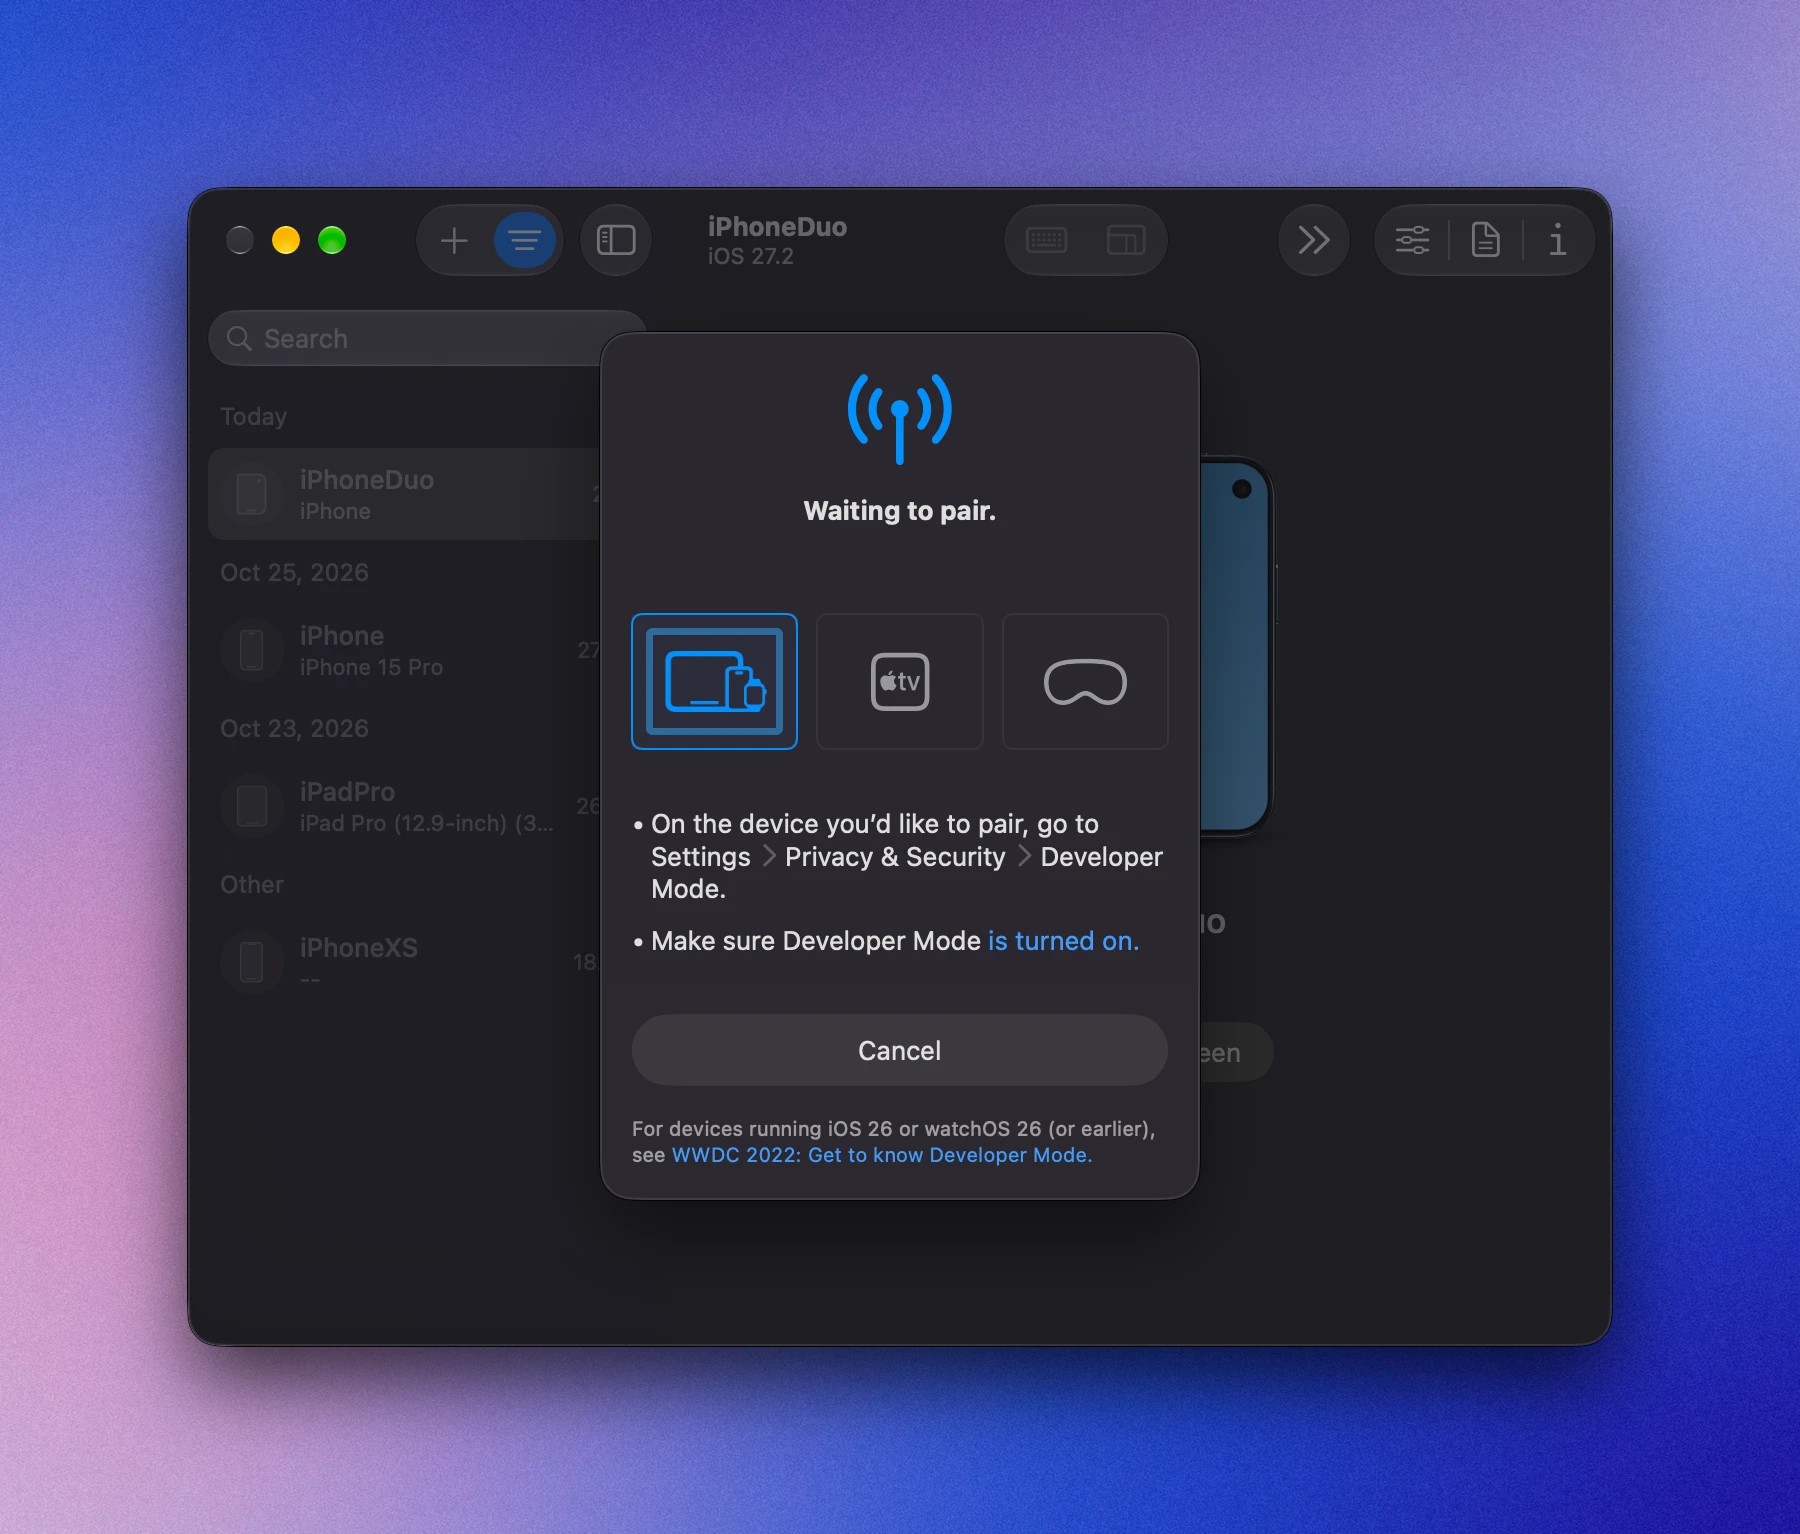
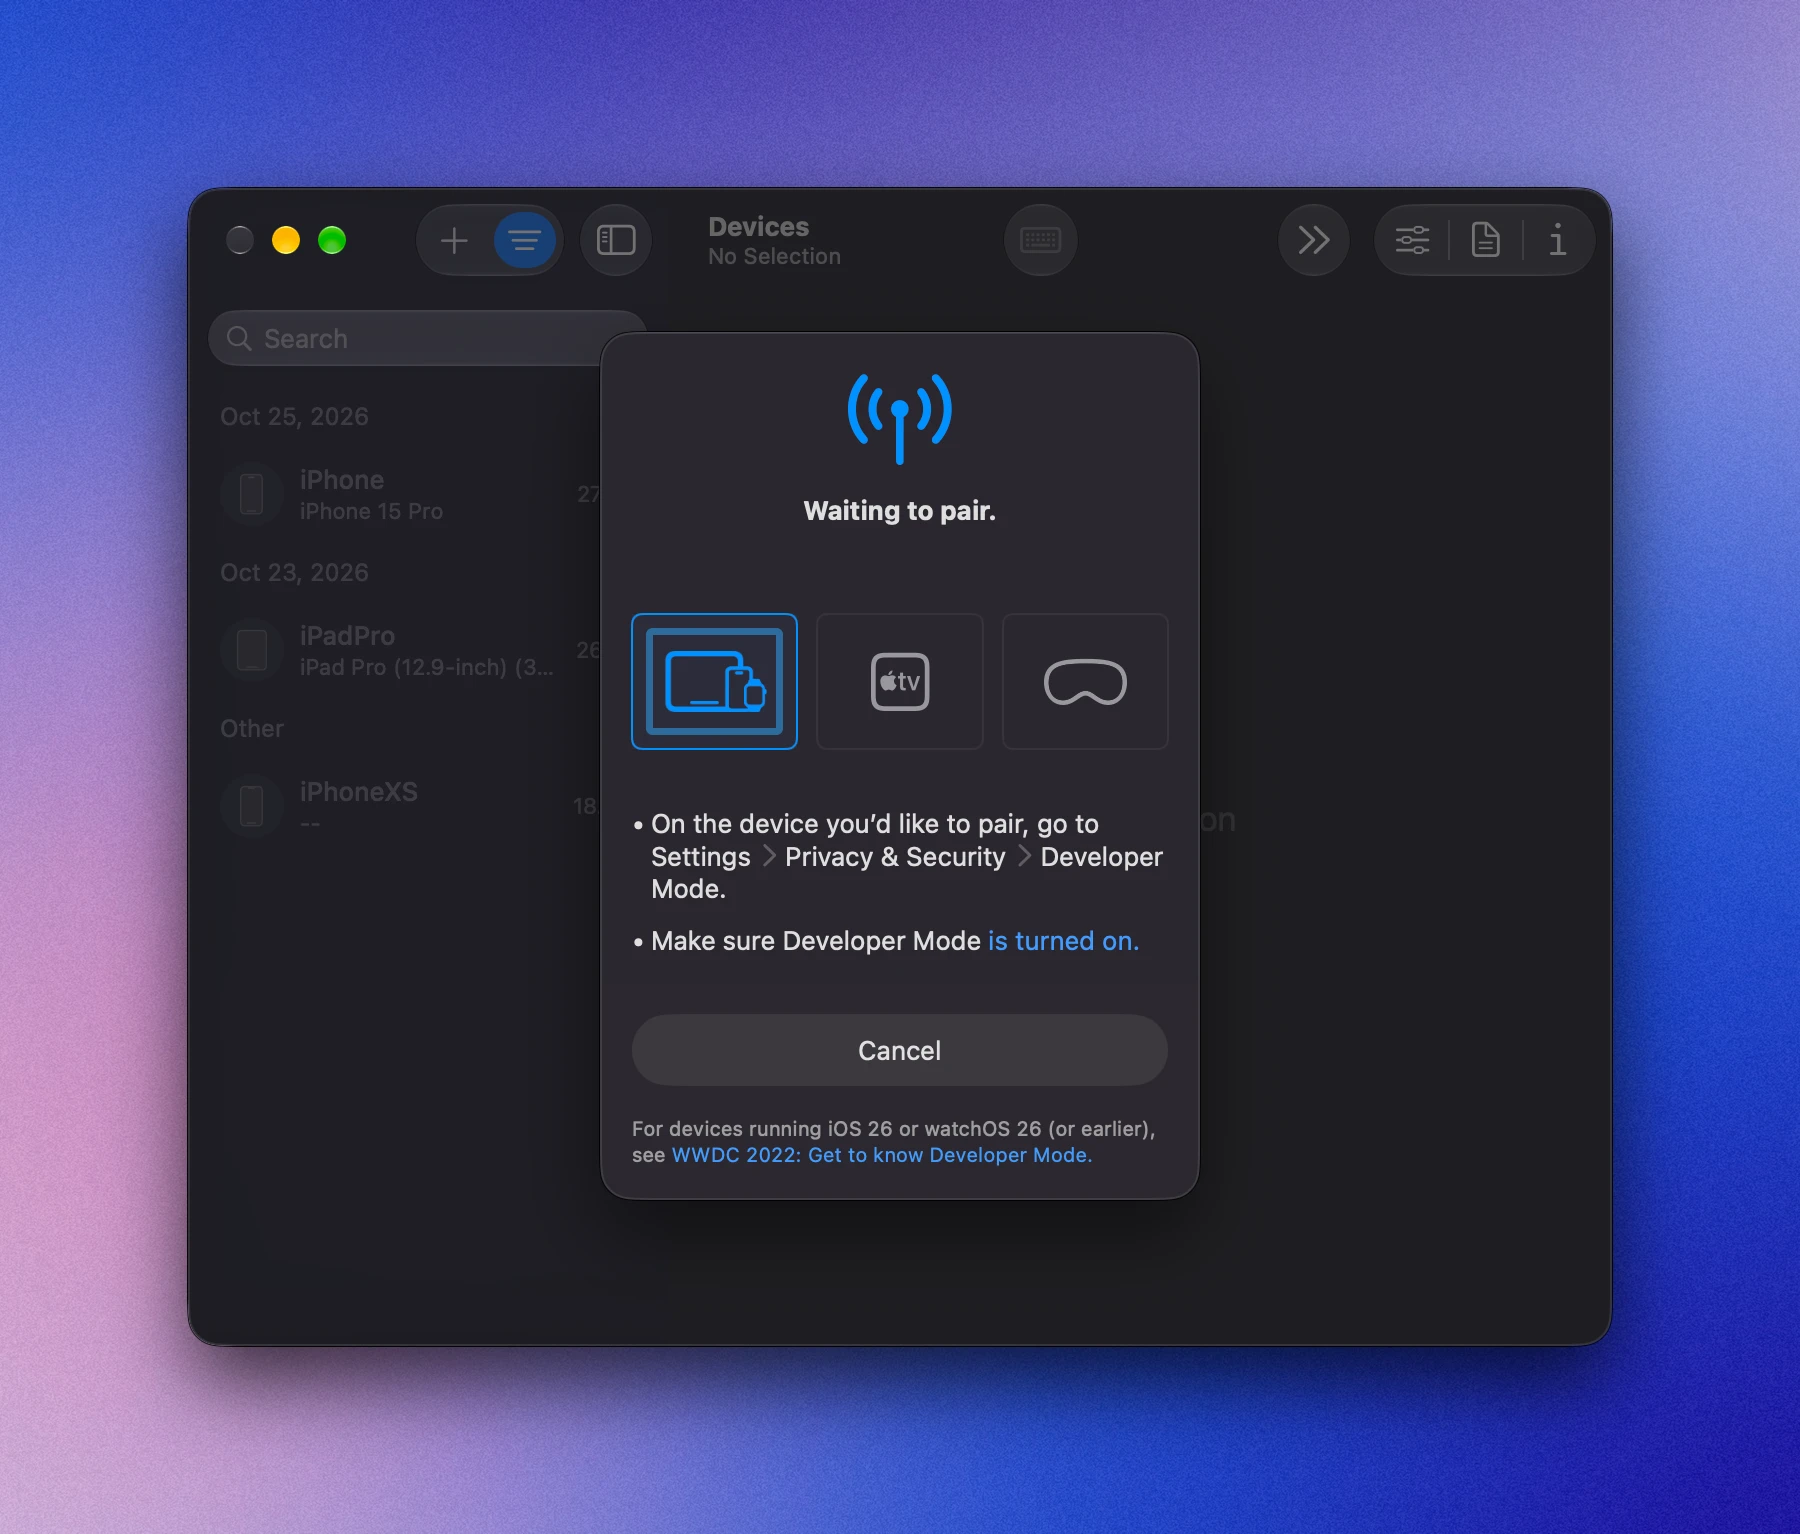
RoamRunの記事：2節の例の名前を iPhoneDuo にそろえ、Device Hub の画面を差し替え

diff --git a/articles/4380fe7546a237.md b/articles/4380fe7546a237.md
@@ -170,10 +170,10 @@ iOS 27 と Xcode 27 なら、iPhone のそばにある Mac が一度だけ仲介
 
    ![離れた Mac の Xcode の Device Hub。Pair Nearby Device を開くと「Waiting to pair.」と出て、iPhone を待つ](/images/roamrun/far-mac-waiting-to-pair.webp =600x)
 
-2. iPhone のそばの Mac（macbook-pro）では、その Mac の RoamRun に iPhone を登録したうえで、次を実行します。`--to` には、RoamRun で登録したときに付けた名前（ここでは `iPhone`）を渡します。
+2. iPhone のそばの Mac（macbook-pro）では、その Mac の RoamRun に iPhone を登録したうえで、次を実行します。`--to` には、RoamRun で登録したときに付けた名前（ここでは `iPhoneDuo`）を渡します。
 
    ```sh
-   roamrun pair introduce --host cloud-mac --to iPhone
+   roamrun pair introduce --host cloud-mac --to iPhoneDuo
    ```
 
 3. iPhone の 設定 › プライバシーとセキュリティ › デベロッパモード で離れた Mac を選びます（一覧には、その Mac のコンピュータ名で出ます）。
@@ -182,7 +182,7 @@ iOS 27 と Xcode 27 なら、iPhone のそばにある Mac が一度だけ仲介
 
 4. 離れた Mac の Device Hub に出たコードを、iPhone に入れます。コードは、離れた Mac の画面を画面共有で見て読みます。
 
-ペアリングを試みた時点で、離れた Mac の RoamRun にも iPhone が保存されます（離れた Mac のコマンドがその名前を表示します）。あとは離れた Mac で `roamrun up iPhone`（ブリッジを始めるコマンド）を実行すれば、ブリッジで使えます。
+ペアリングを試みた時点で、離れた Mac の RoamRun にも iPhone が保存されます（離れた Mac のコマンドがその名前を表示します）。あとは離れた Mac で `roamrun up iPhoneDuo`（ブリッジを始めるコマンド）を実行すれば、ブリッジで使えます。
 
 一度でもペアリングしたことのある iPhone なら、そばに Mac がなくてもペアリングできます。
 
